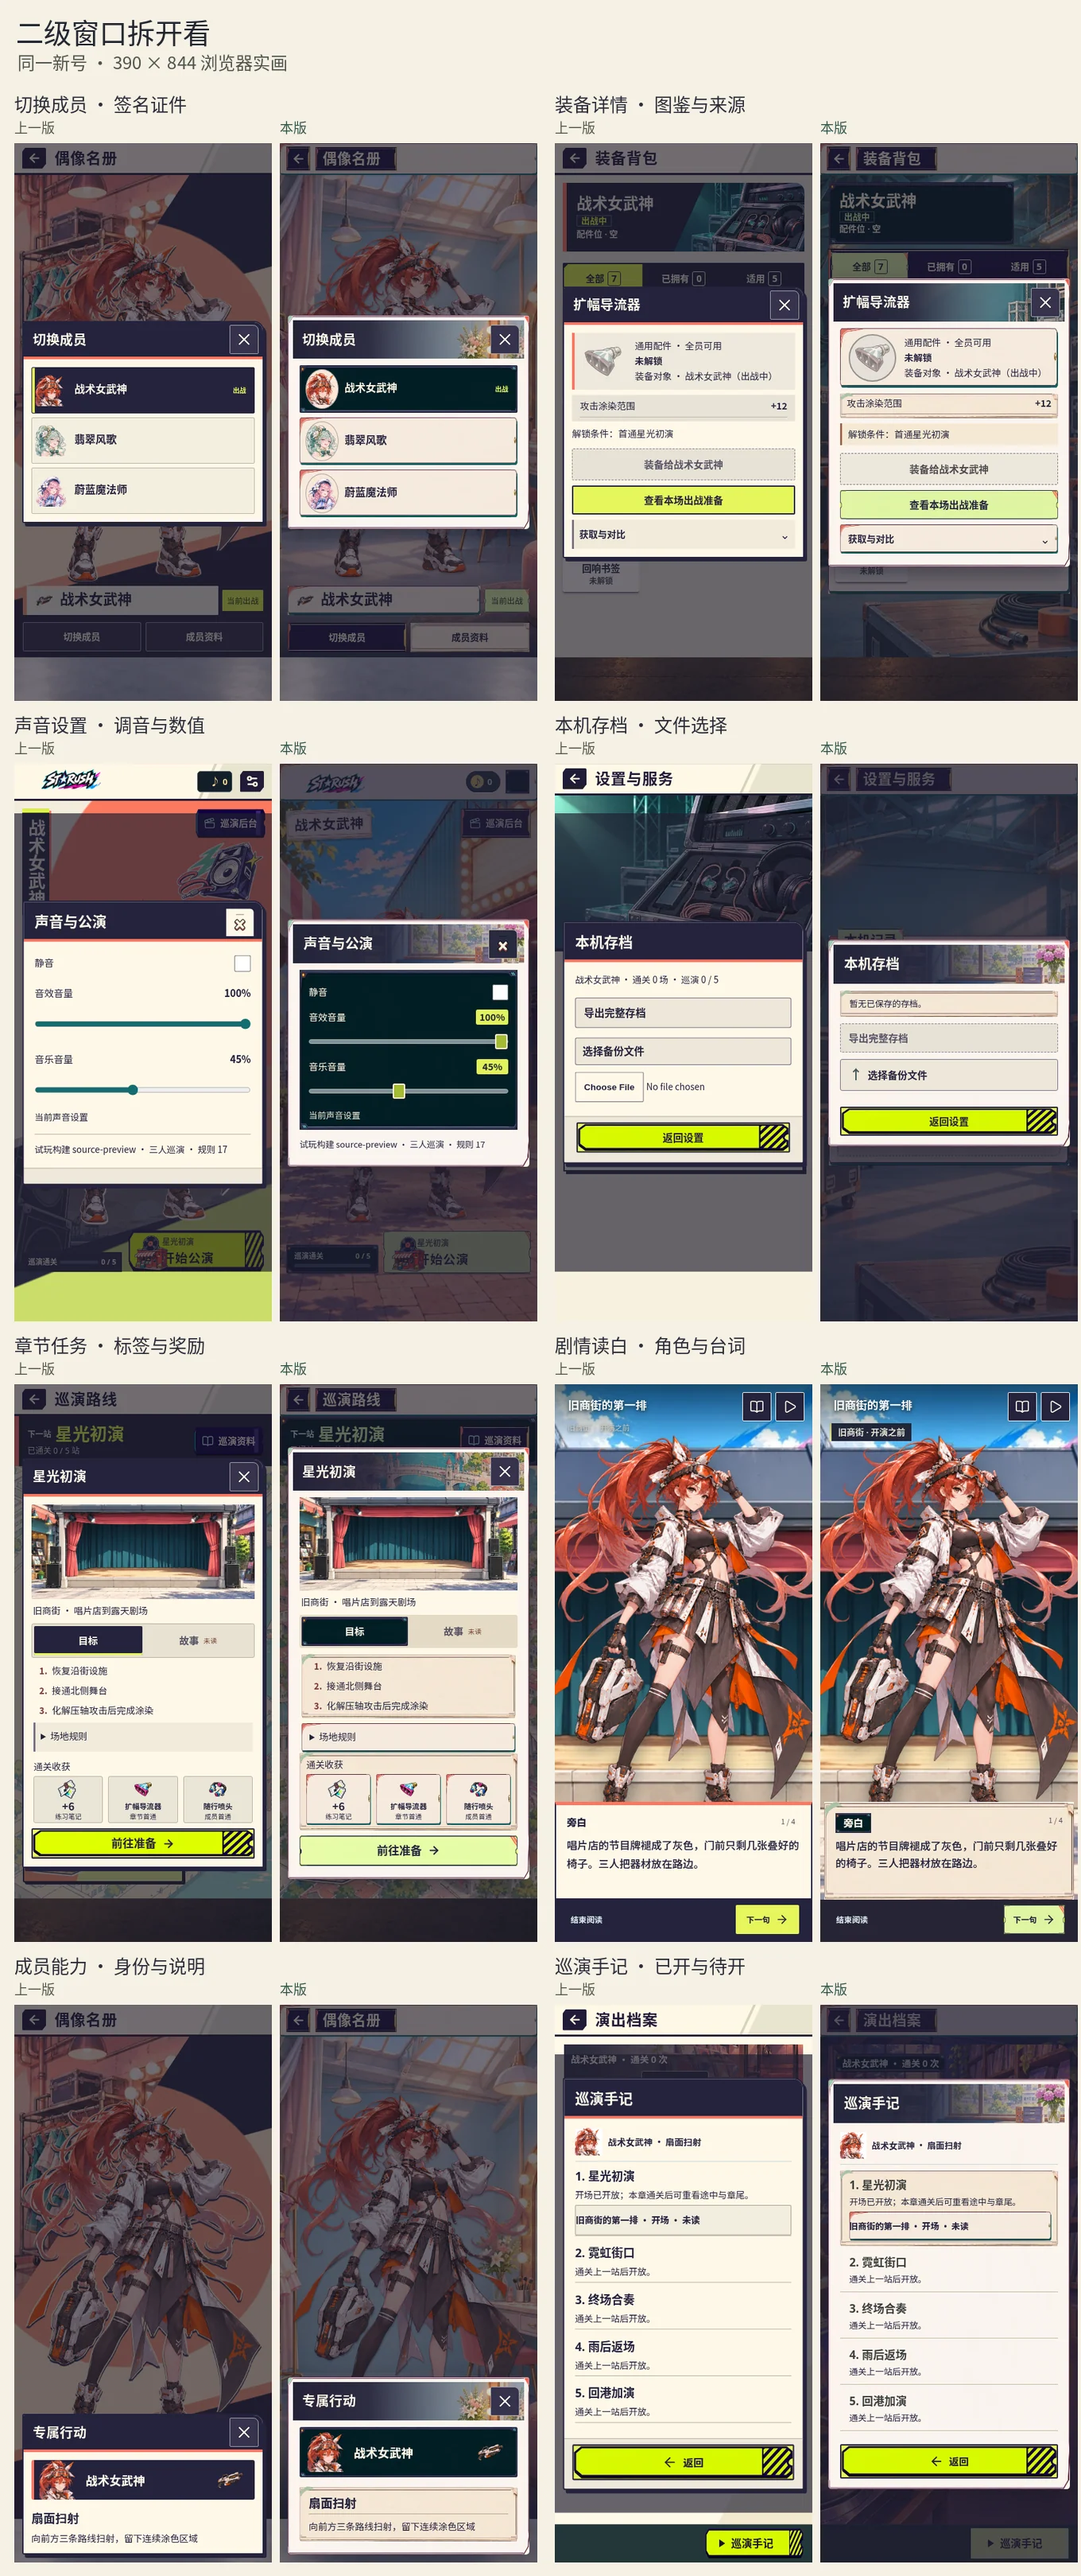
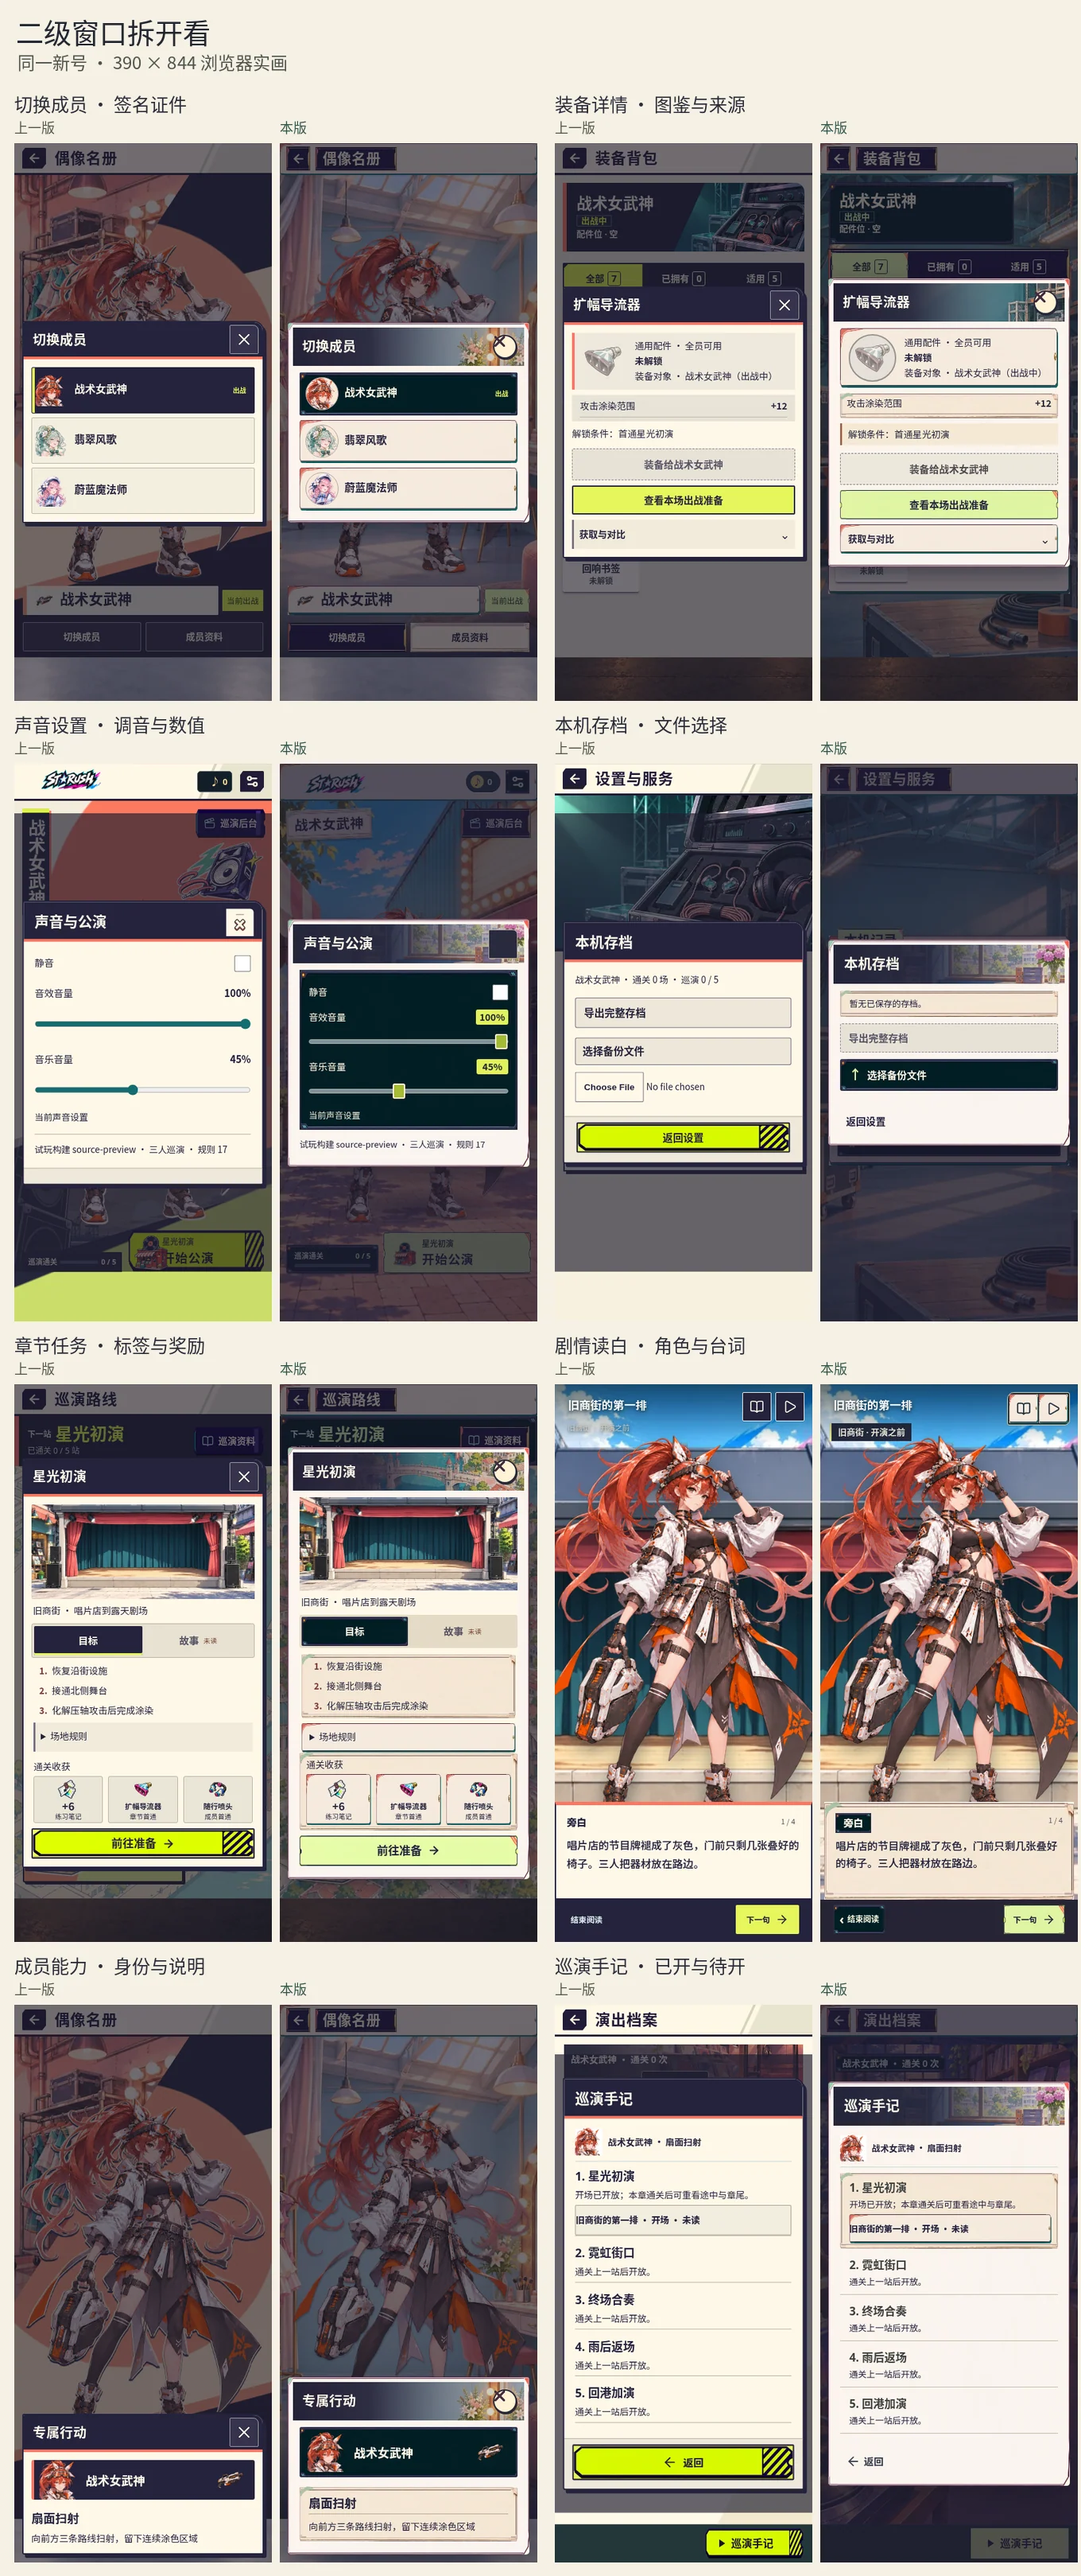
Distinguish dialog exit, restore, story controls and roster assignment actions

diff --git a/game/src/styles/printroomSheets.css b/game/src/styles/printroomSheets.css
@@ -140,6 +140,18 @@
     color:var(--sheet-ink);background:#f4edda;border:0;border-image:var(--set-card) 42 fill / 8px stretch;
   }
   & .sec-venue-editor .pm-room-program[aria-pressed=true] {color:#fff8e6;border-image-source:var(--set-monitor)}
+  &[data-venue-sheet=editor] .vs-editor-footer button[data-action^="venue-assign-"] {
+    display:flex;align-items:center;justify-content:center;gap:10px;min-height:48px;
+    padding:8px 13px;border:0;border-image:var(--set-stub) 42 fill / 11px stretch;background:#e4ed9a;
+    color:#202a34;box-shadow:none;
+  }
+  &[data-venue-sheet=editor] .vs-editor-footer button[data-action^="venue-assign-"]::before {
+    content:'';width:13px;height:7px;border-left:3px solid currentColor;border-bottom:3px solid currentColor;
+    transform:rotate(-45deg) translateY(-2px);flex:none;
+  }
+  &[data-venue-sheet=editor] .vs-editor-footer [data-venue-letter=assign] {display:inline;position:static;color:inherit;font:800 15px/22px system-ui,sans-serif!important}
+  &[data-venue-sheet=editor] .vs-editor-footer [data-venue-letter=assign] img {display:none}
+  &[data-venue-sheet=editor] .vs-editor-footer button:disabled {filter:grayscale(.8);opacity:.72}
   & .pm-companion-record :is(.pm-record-empty,li) {padding:13px 15px;color:#443b3d;border-image:var(--set-note) 42 fill / 10px stretch}
   & .ui-sheet-body .cs-service-state {color:#394848;background:#e0e9dc;padding:2px 6px;border-radius:2px}
   /* Folded directory, running order, annotated proof and artist passes use different stocks. */
@@ -297,6 +309,30 @@
   & .journal-chapter:not(:has(button:enabled)) {border-image-source:none;border-bottom:1px solid #c4bba6;padding-block:4px}
   & .journal-chapter .session-secondary {border:0;border-image:var(--set-card) 42 fill / 8px stretch}
 
+  /* File inspection and reading are the work inside these windows. Back is a quiet exit. */
+  &:is([data-mode=profile-backup],[data-mode=story-journal]) .session-footer {
+    display:flex;justify-content:flex-start;align-items:center;padding:4px 11px 7px;
+  }
+  &:is([data-mode=profile-backup],[data-mode=story-journal]) .session-footer .session-primary,
+  &[data-mode=settings] .session-footer .session-primary:not([data-console-return=close]) {
+    width:auto;min-width:78px;max-width:100%;min-height:44px;gap:5px;padding:5px 8px;
+    justify-content:flex-start;background:transparent;border:0;border-image:none;box-shadow:none;color:#3f4654;
+  }
+  &[data-mode=profile-backup] .session-footer .session-primary:not(:has(svg))::before {
+    content:'←';font:750 17px/1 system-ui,sans-serif;color:currentColor;
+  }
+  & .profile-backup button[data-action=backup-export]:enabled {border-image-source:var(--set-card)}
+  & .profile-backup .profile-backup-picker label.profile-backup-file {
+    color:#fff9e7;background:#26383b;border:0;border-image:var(--set-monitor) 42 fill / 10px stretch;
+  }
+  & .profile-backup-picker .profile-backup-file::before {color:#e7f4a0}
+  & .profile-backup-preview button[data-action=backup-restore]:enabled {
+    min-height:48px;color:#232635;border:0;border-image:var(--set-stub) 42 fill / 11px stretch;
+  }
+  & .profile-backup-preview button[data-action=backup-preview-cancel] {
+    min-height:44px;color:#343847;border:0;border-image:var(--set-card) 42 fill / 9px stretch;
+  }
+
 }
 
 #game-container #player-session-dialog[data-mode=story][data-performance-story=true][data-reading=true] {
@@ -315,6 +351,22 @@
     background:#24283c;color:#fff8e8;border:0;border-inline-start:3px solid #e7ea94;
     font:650 13px/19px system-ui,sans-serif;text-shadow:none;
   }
+  & .story-toolbar {
+    display:flex;gap:1px;padding:2px;background:#20292e;border:1px solid #d8d8bb;border-radius:10px 3px 8px 3px;
+  }
+  & .story-toolbar .story-icon {
+    display:grid;place-items:center;width:44px;height:44px;min-width:44px;min-height:44px;padding:6px;
+    border:0;border-image:var(--set-card) 42 fill / 7px stretch;color:#283544;background:#f4ead6;
+  }
+  & .story-toolbar .story-icon svg {width:22px;height:22px;stroke-width:2.1}
+  & .story-toolbar .story-icon[aria-pressed=true] {color:#262b32;background:#dfe99d;border:0;border-image:var(--set-stub) 42 fill / 7px stretch}
+  & .session-footer button[data-action=story-close] {
+    min-width:78px;min-height:44px;padding:6px 9px;display:flex;gap:5px;align-items:center;justify-content:center;
+    border:0;border-image:var(--set-monitor) 42 fill / 8px stretch;background:#27363d;color:#fff8df;font:700 12px/18px system-ui,sans-serif;
+  }
+  & .session-footer button[data-action=story-close]::before {content:'‹';font:750 19px/1 system-ui,sans-serif}
+  & .story-history {background:#243039;border:5px solid #243039;border-image:var(--set-monitor) 42 fill / 13px stretch;color:#fff8e5}
+  & .story-history-row p, & .story-history-header h3 {color:#fff8e5}
   & .performance-story-dialogue {
     position:absolute;inset:auto 6px 64px;margin:0;padding:17px 17px 13px;
     border:0;border-image:var(--set-note) 42 fill / 14px stretch;
@@ -366,6 +418,26 @@
   & .session-footer {background:transparent}
   & .session-footer .session-primary {border:0;border-image:var(--set-stub) 42 fill / 9px stretch}
 }
+
+/* The visible cap is smaller than the 44px target. Its X stays clear on illustrated headers. */
+#game-container #public-shell[data-edition=showbill][data-cast=owner-three][data-shell-family][data-inner-family][data-core-journey][data-home-demo][data-ui-pass][data-page] dialog.ui-sheet[data-sheet-kind] .ui-sheet-close,
+#game-container #player-session-dialog[data-mode=settings][data-reading-family] .session-primary[data-console-return=close],
+#game-container #player-session-dialog[data-performance-story=true][data-reading=true] .story-history-header [data-action=story-history-close] {
+  width:44px;height:44px;min-width:44px;min-height:44px;isolation:isolate;
+  background:transparent;border:0;border-radius:0;box-shadow:none;
+  & > :is(img,svg) {display:none}
+  &::before {
+    content:'';position:absolute;inset:4px;z-index:-1;
+    background:#fff3d4;border:2px solid #28283b;border-radius:50%;box-shadow:1px 2px 0 #29283b;
+  }
+  &::after {
+    content:'';position:absolute;inset:14px;
+    background:linear-gradient(45deg,transparent 42%,#432c40 44% 56%,transparent 58%),
+               linear-gradient(-45deg,transparent 42%,#432c40 44% 56%,transparent 58%);
+  }
+}
+#game-container #public-shell[data-edition=showbill] dialog.ui-sheet[data-sheet-kind] .ui-sheet-header .ui-sheet-close,
+#game-container #player-session-dialog[data-performance-story=true][data-reading=true] .story-history-header [data-action=story-history-close] {position:relative}
 
 @media (forced-colors:active) {
   #game-container .profile-backup-picker:focus-within {outline-color:Highlight}

diff --git a/docs/visual-qa/2026-11-25-setdesign/windows.md b/docs/visual-qa/2026-11-25-setdesign/windows.md
@@ -14,3 +14,9 @@
 | 设置遮罩 | 390×844 的首页可铺满屏，设置遮罩却只盖住 y=75 到 769，首尾漏出较亮的旧页面。 | 遮罩沿菜单宽高和安全区定位。320、390、768、1366 四档分别从上下边缘取点，均由窗口接住。 |
 | 音量和状态显示 | 滑杆、百分比与当前设置挤在同一张白纸。 | 声音区域使用调音台面板，两种音量带实体感推子，数值有独立浅色显示窗。四档均实点静音、解除静音，再用键盘调到 5%，核对推子与显示同步。 |
 | 存档导入、焦点与错误提示 | “选择备份文件”下面再出现一枚浏览器文件按钮，操作重复。 | 中文标签和原生文件输入占同一热区，聚焦时整个文件框描边。四档用真实选择器传入一份无效 JSON，均提示校验失败，未显示恢复按钮。 |
+
+## 返回、选择与确认
+
+备份和手记中的“返回”保留至少 44 像素的热区，使用安静的深字。备份窗口先显示文件入口；导入一份有效文件后，才出现浅亮色的“确认替换并返回主页”和独立的“取消”。在 320 和 390 宽度下，实际打开文件、预览、取消，核对原存档字节一致，键盘焦点回到文件入口。[备份、自动阅读、日志及场馆操作实画](window-actions.webp)
+
+读故事时，自动播放和日志使用同一排紧凑工具键。自动开启后更换票面颜色，退出阅读留在底部次操作，下一句及继续公演仍是主要动作。设置、资料和日志的小叉都保留 44 像素点击范围，画出更小的圆形面和清楚的叉。房间排班的保存使用带勾的行动票，与草稿提示和返回键分开。
